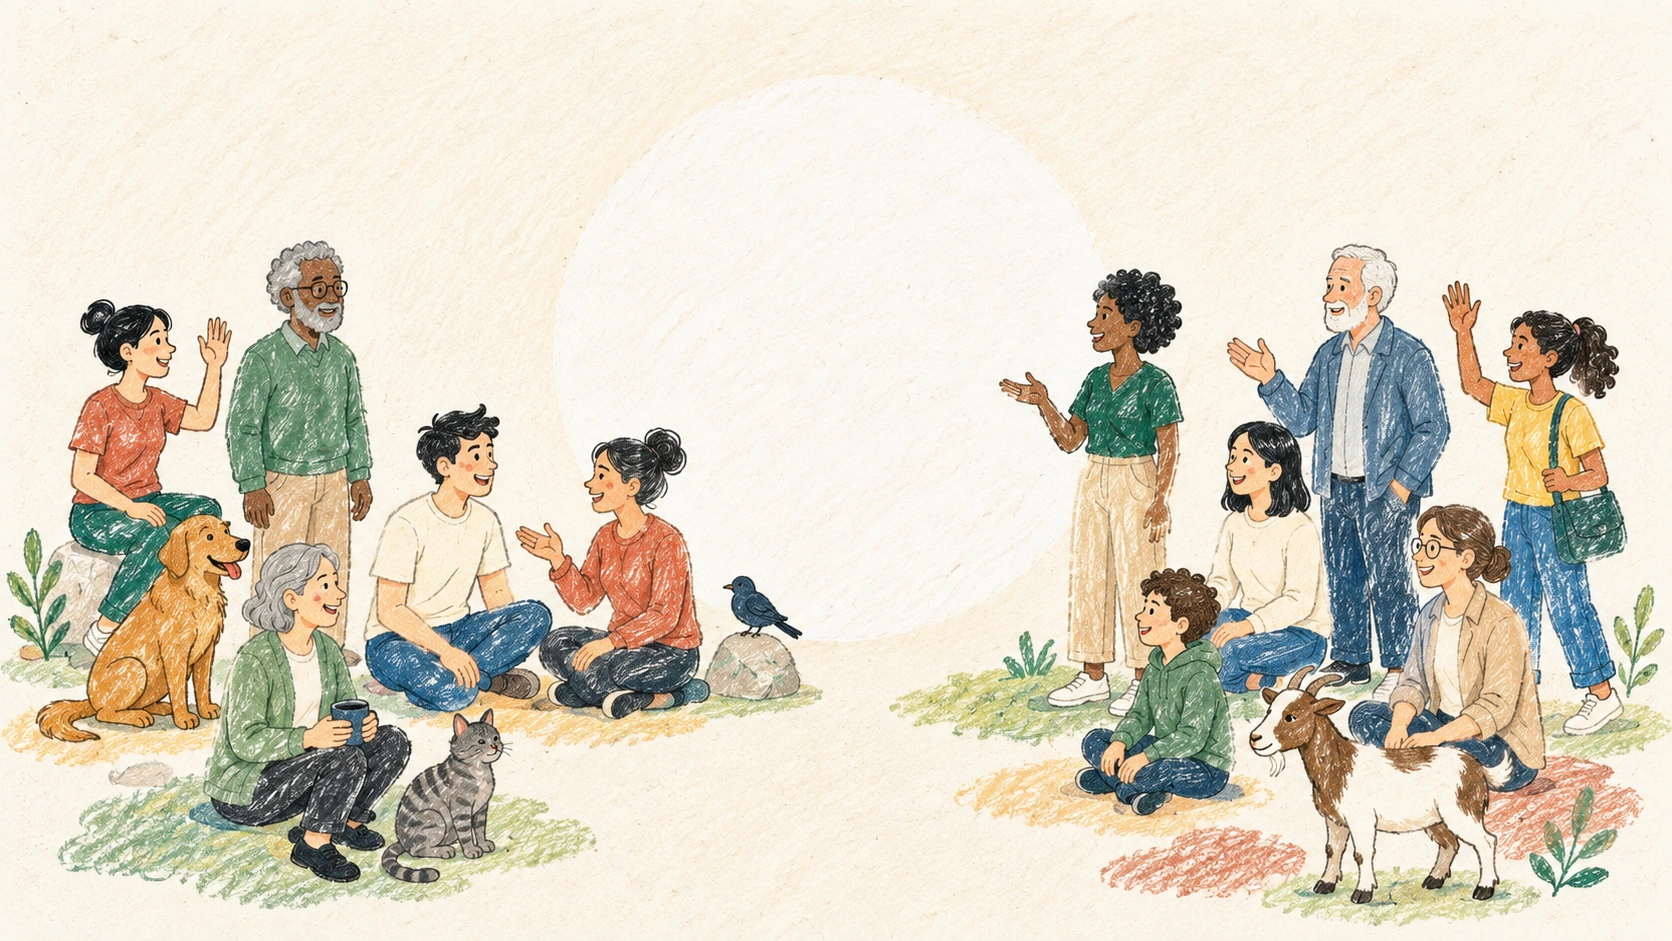
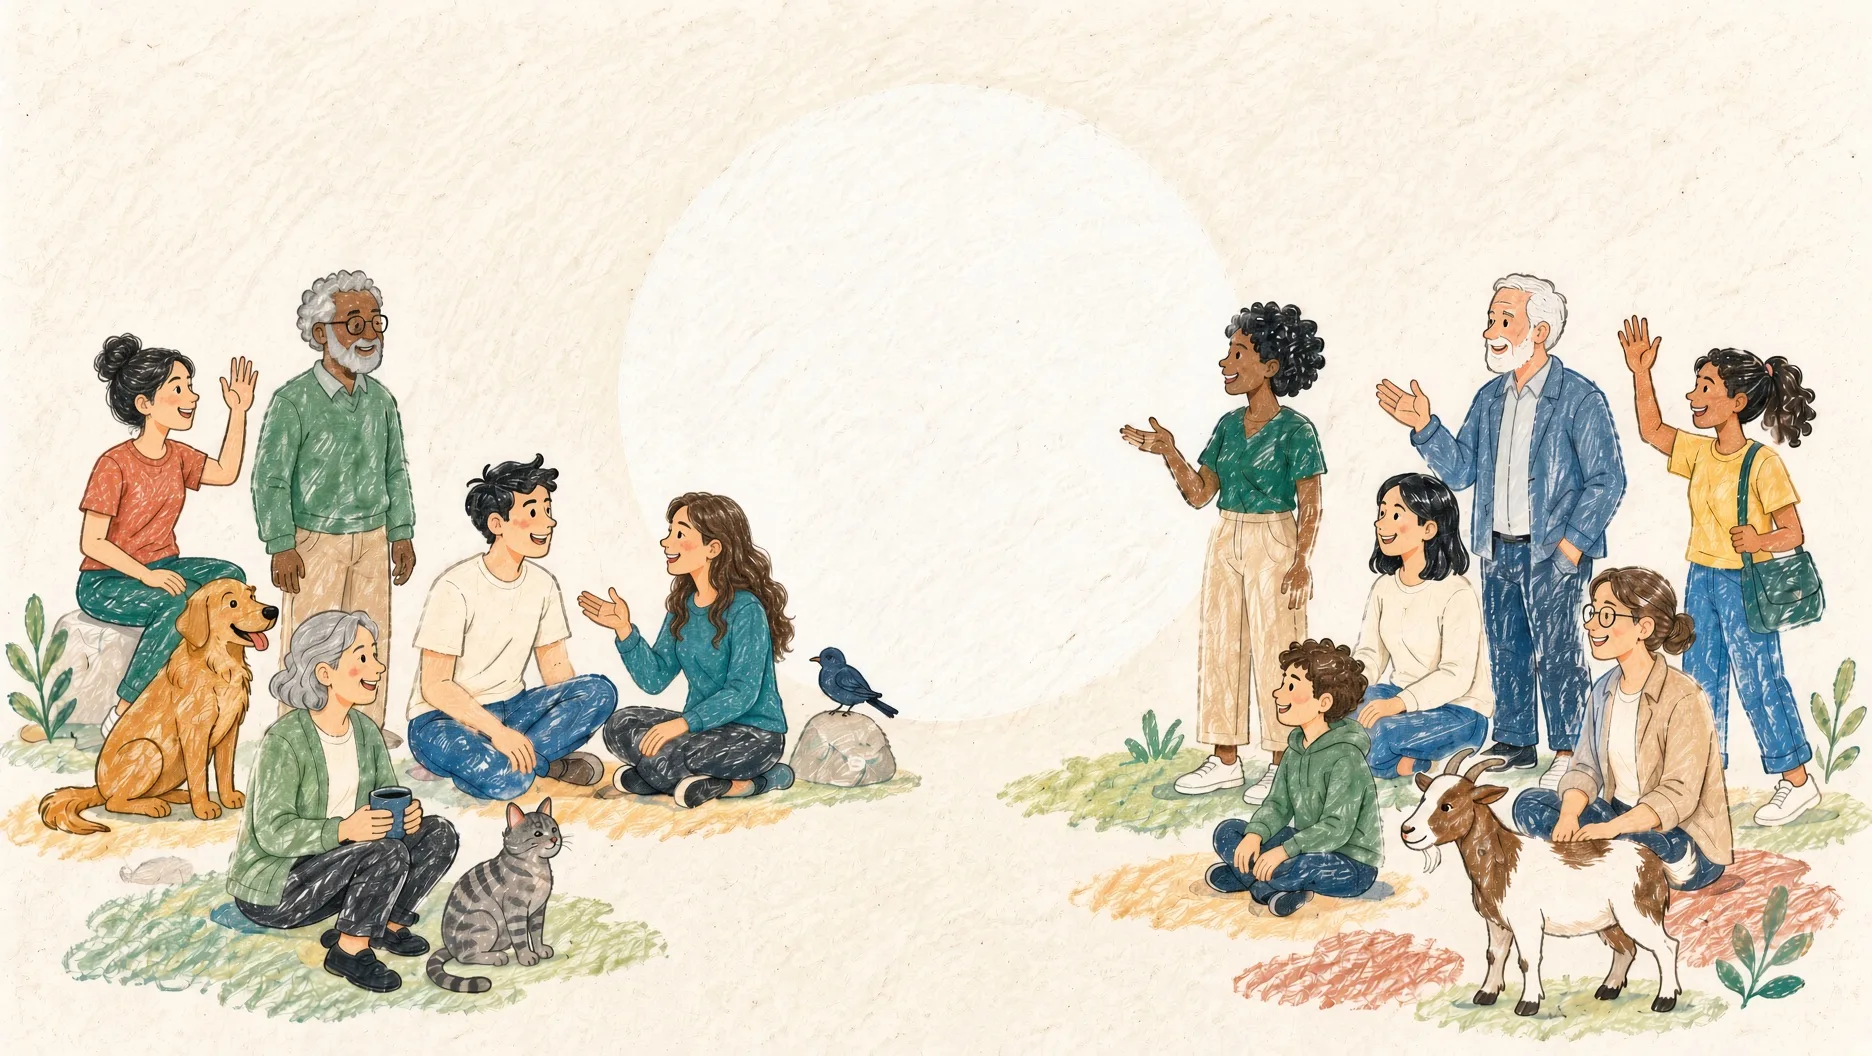
Put back the writing's styling, and stand the drawing up on a phone
The commit that removed the sheet took 130 lines of unrelated CSS with
it - everything between two media queries, which was the whole of the
notes: the ground the writing stands on, the padding round it, and the
rules that hold the shapes behind the text. On a phone that came out as
black blobs stacked down a blue page. Restored from the commit before,
minus only the sheet's own rules.

The opening now has two drawings instead of one crop: the wide one for a
window, and a standing 9:16 one for a phone, where the wide one could
only ever be a strip of somebody's jumper. Each leaves its own space for
the globe, both measured off the artwork the same way, and the standing
one covers a phone outright.

And choosing a country brings the page down far enough to show the top
of the card - the scroll anyone would do by hand, downwards only, since
the card no longer comes to you.

Changed region(s): [[0.5287, 0.2465, 1.0, 0.9862], [0.0, 0.2465, 0.4976, 0.9862]]

diff --git a/app/hallo-terra/hallo-terra.css b/app/hallo-terra/hallo-terra.css
@@ -442,6 +442,132 @@
   .terraSearch { width: min(230px, 62%); }
 }
 
+@media (prefers-reduced-motion: reduce) {
+  .terraCard { transition: none; }
+}
+
+/* Said only when somebody turns the wheel and the map does not move. */
+.terraWheelHint {
+  position: absolute;
+  left: 50%;
+  top: 50%;
+  transform: translate(-50%, -50%);
+  margin: 0;
+  z-index: 4;
+  padding: 14px 22px;
+  border-radius: 6px;
+  background: rgba(45, 44, 43, 0.78);
+  color: #fdfaf0;
+  font: 700 13px/1 var(--terra-hand);
+  letter-spacing: 0.04em;
+  pointer-events: none;
+  animation: terraHint 0.18s ease both;
+}
+@keyframes terraHint {
+  from { opacity: 0; }
+  to { opacity: 1; }
+}
+
+/* ---- what the map is for, underneath the map ---------------------- */
+
+/* The writing is not the tool, so it stands on its own lighter ground. */
+.terraNotes { background: var(--terra-notes); padding-top: 26px; }
+
+.terraAbout {
+  max-width: 720px;
+  margin: 0 auto;
+  padding: 40px clamp(22px, 6vw, 60px) 90px;
+}
+/* The writing sits on the page; the shapes sit behind it and are allowed to
+   wander outside their section. */
+.terraAbout section,
+.terraAbout .terraAside { position: relative; padding: 26px clamp(18px, 3vw, 30px) 30px; }
+.terraAbout section + section { margin-top: 26px; }
+.terraAbout section > :not(.terraShapes),
+.terraAbout .terraAside > :not(.terraShapes) { position: relative; }
+
+.terraShapes {
+  position: absolute;
+  inset: 0;
+  display: block;
+  pointer-events: none;
+}
+.terraShape { position: absolute; aspect-ratio: 1; height: auto; overflow: visible; }
+.terraShapeFill { fill: currentColor; opacity: 0.13; stroke: none; }
+.terraShapeLine { fill: none; stroke: currentColor; stroke-width: 1.6; opacity: 0.38; stroke-linejoin: round; }
+
+/* Out in the margins on a wide screen. On a narrow one there are no margins
+   to put them in, so they go under the writing instead - which is where they
+   already were, the text being the only thing here that is positioned - and
+   they are let down until a line of type crossing one is still just a line of
+   type on paper. */
+@media (max-width: 900px) {
+  .terraShape { opacity: 0.55; }
+}
+@media (max-width: 620px) {
+  .terraShape { opacity: 0.85; }
+  .terraShapeFill { opacity: 0.09; }
+  .terraShapeLine { opacity: 0.26; }
+}
+
+.terraAbout h2 {
+  margin: 0 0 18px;
+  font-family: var(--terra-hand);
+  font-size: clamp(19px, 2.4vw, 25px);
+  font-weight: 600;
+  letter-spacing: 0.02em;
+  line-height: 1.5;
+}
+.terraAbout p {
+  margin: 0 0 16px;
+  font-size: 14px;
+  line-height: 2.05;
+  color: #454b46;
+}
+.terraAbout p:last-child { margin-bottom: 0; }
+/* The site strips link colour and underline globally; inside a paragraph of
+   prose a link has to look like one again. */
+.terraAbout a {
+  color: var(--verm);
+  border-bottom: 1px solid rgba(173, 68, 52, 0.4);
+  padding-bottom: 1px;
+}
+.terraAbout a:hover { border-bottom-color: var(--verm); }
+.terraLede { font-size: 15px !important; color: var(--ink) !important; }
+.terraAbout .terraEyebrow { margin-bottom: 14px; }
+.terraSteps { margin: 0; padding: 0; list-style: none; counter-reset: step; }
+.terraSteps li {
+  counter-increment: step;
+  position: relative;
+  padding-left: 42px;
+  margin-bottom: 20px;
+  font-size: 14px;
+  line-height: 2.05;
+  color: #454b46;
+}
+.terraSteps li:before {
+  content: counter(step);
+  position: absolute;
+  left: 0;
+  top: 3px;
+  width: 25px;
+  height: 25px;
+  display: grid;
+  place-items: center;
+  border: 1px solid var(--line);
+  border-radius: 50%;
+  font: 500 11px/1 "Yu Gothic UI", sans-serif;
+  color: var(--muted);
+}
+.terraAside { margin-top: 30px; }
+
+/* The voices, and what each one allows. Folded away: it is a legal necessity
+   rather than something anybody came here to read. */
+.terraVoices { margin-top: 14px; font-size: 12px; color: var(--muted); }
+.terraVoices summary { cursor: pointer; letter-spacing: 0.04em; }
+.terraVoices ul { list-style: none; margin: 12px 0 0; padding: 0; columns: 2; column-gap: 26px; }
+.terraVoices li { margin-bottom: 5px; line-height: 1.7; break-inside: avoid; }
+.terraVoices code { font: 400 11px/1 Consolas, monospace; color: var(--ink); }
 @media (max-width: 640px) { .terraVoices ul { columns: 1; } }
 .terraAside h2 { font-size: 15px; margin-bottom: 12px; }
 .terraAside p { font-size: 12.5px; line-height: 1.95; }
@@ -529,7 +655,7 @@
   left: 50%;
   top: 50%;
   width: max(100%, 178dvh);
-  aspect-ratio: 1672 / 941;
+  aspect-ratio: 1872 / 1056;
   /* The centring lives here and not only in the keyframes: dropping the
      animation on the way out would otherwise drop the centring with it, and
      the drawing would jump to the bottom right corner on its last frame. */
@@ -543,6 +669,14 @@
 .terraIntro.leaving .terraIntroScene {
   animation: none;
   transform: translate(-50%, -50%) scale(7);
+}
+
+/* The standing drawing is 9:16, so on a phone it covers the screen outright
+   and the globe lands where the drawing put it - no special centring, and no
+   crop that leaves a stranger's sleeve filling the window. */
+.terraIntroScene.isTall {
+  width: max(100%, 56.3dvh);
+  aspect-ratio: 1008 / 1792;
 }
 
 .terraIntroScene canvas {
@@ -626,28 +760,7 @@
 }
 
 @media (max-width: 860px) {
-  /* A phone is much taller than the drawing, so covering it would blow the
-     globe up past the screen. Here the width leads instead, and the sides of
-     the crowd are allowed to run off - but only a little: at 190% the drawing
-     was nearly twice the screen and all that was left of it was somebody's
-     jumper. And what gets centred is the globe, not the middle of the picture,
-     because the middle of the picture is not what the opening is about. The
-     drawing then sits as a band across the screen with its own cream above and
-     below it, which is what that ground is there for. */
-  .terraIntroScene {
-    width: min(132%, 178dvh);
-    top: 46%;
-    transform: translate(-49.5%, -38.5%);
-    animation-name: terraCreepPhone;
-  }
-  .terraIntro.leaving .terraIntroScene { transform: translate(-49.5%, -38.5%) scale(7); }
   .terraIntroWord { width: 62%; font-size: clamp(19px, 5.4vw, 30px); }
-}
-/* The creep has to carry the same centring it runs on, or the first frame
-   throws the drawing back to the middle. */
-@keyframes terraCreepPhone {
-  from { transform: translate(-49.5%, -38.5%) scale(1); }
-  to { transform: translate(-49.5%, -38.5%) scale(1.07); }
 }
 
 /* ---- drawn boxes and drawn rules ------------------------------------ */

diff --git a/app/hallo-terra/TerraIntro.tsx b/app/hallo-terra/TerraIntro.tsx
@@ -26,17 +26,26 @@ const POOL = Object.values(varieties)
   .map((v) => v.expressions.greeting?.text?.split(" / ")[0]?.trim())
   .filter((t): t is string => !!t && t.length <= 12);
 
-// Where the illustration left a space for the globe, measured off the artwork.
-// In the crayon drawing the circle is barely brighter than the paper - what
-// separates them is blue, since the paper is cream and the circle is not - so
-// it was found by looking at that channel alone: 32.5% of the width, centred
-// at 49.5% / 38.5%. The globe is drawn a little larger so the circle's soft
-// edge is covered rather than left showing as a ring.
-const DISC_X = 49.5;
-const DISC_Y = 38.5;
-const DISC_SIZE = 33.8;
+// Two drawings of the same gathering: one lying down for a window, one
+// standing up for a phone, where the wide one could only ever be a strip of
+// somebody's jumper. Each leaves its own space for the globe, and each space
+// was measured off the artwork rather than guessed. In the crayon drawing the
+// circle is barely brighter than the paper - what separates them is blue,
+// since the paper is cream and the circle is not - so each was found by
+// looking for the widest run of pixels that are bright without being warm.
+// The globe is drawn a little larger than the space so the circle's soft edge
+// is covered rather than left showing as a ring.
+type Art = { src: string; x: number; y: number; size: number };
+const WIDE: Art = { src: "/hallo-terra/intro.webp", x: 49.5, y: 38.3, size: 34.0 };
+const TALL: Art = { src: "/hallo-terra/intro-tall.webp", x: 50.5, y: 41.7, size: 53.5 };
 
 export default function TerraIntro({ onDone }: { onDone: () => void }) {
+  // Which drawing, asked once at the width the rest of the page changes shape
+  // at. Read while the state is made rather than in an effect, which is safe
+  // here and nowhere else on the page: the opening is mounted a frame after
+  // the map by the client, so it never renders on the server and there is no
+  // first guess to be caught out by.
+  const [art] = useState<Art>(() => (window.matchMedia("(max-width: 860px)").matches ? TALL : WIDE));
   const canvasRef = useRef<HTMLCanvasElement>(null);
   const [leaving, setLeaving] = useState(false);
   const [word, setWord] = useState(0);
@@ -223,16 +232,16 @@ export default function TerraIntro({ onDone }: { onDone: () => void }) {
           The zoom layer is separate from the name and the button: they belong
           to the page, not to the scene being dived into. */}
       <div className="terraIntroZoom">
-        <div className="terraIntroScene">
-          <Image src="/hallo-terra/intro.webp" alt="" fill priority sizes="100vw" style={{ objectFit: "cover" }} />
+        <div className={`terraIntroScene${art === TALL ? " isTall" : ""}`}>
+          <Image src={art.src} alt="" fill priority sizes="100vw" style={{ objectFit: "cover" }} />
           <canvas
             ref={canvasRef}
             /* Width only: the height follows from aspect-ratio, because a
                percentage height here would answer to the frame, not the circle. */
-            style={{ left: `${DISC_X}%`, top: `${DISC_Y}%`, width: `${DISC_SIZE}%` }}
+            style={{ left: `${art.x}%`, top: `${art.y}%`, width: `${art.size}%` }}
           />
           {!leaving && (
-            <p className="terraIntroWord" style={{ left: `${DISC_X}%`, top: `${DISC_Y}%` }}>
+            <p className="terraIntroWord" style={{ left: `${art.x}%`, top: `${art.y}%` }}>
               <span key={word}>{greetings[word % Math.max(1, greetings.length)] ?? ""}</span>
             </p>
           )}

diff --git a/app/hallo-terra/TerraMap.tsx b/app/hallo-terra/TerraMap.tsx
@@ -48,6 +48,7 @@ export default function TerraMap() {
   // Shown when the wheel is turned without ctrl, so that "nothing happened"
   // says why. It takes itself away again.
   const [hint, setHint] = useState(false);
+  const cardRef = useRef<HTMLElement>(null);
   // Which of the place's ways of speaking the card is showing.
   const [tongue, setTongue] = useState(0);
   // Which languages this particular device can speak, which is nothing to do
@@ -407,6 +408,18 @@ export default function TerraMap() {
       setSelected(country.iso);
       setTongue(0);
       if (move) centreOn(country);
+      // On a narrow screen the card is below the map rather than over it, so
+      // choosing a country changes something you cannot see. The page comes
+      // down far enough to show the top of it - the scroll anyone would do by
+      // hand - and only ever downwards, so it never drags you back up from
+      // something you were already reading.
+      const card = cardRef.current;
+      if (!card || !window.matchMedia("(max-width: 860px)").matches) return;
+      requestAnimationFrame(() => {
+        const top = card.getBoundingClientRect().top + window.scrollY;
+        const want = Math.round(top - window.innerHeight * 0.42);
+        if (window.scrollY < want - 8) window.scrollTo({ top: want, behavior: "smooth" });
+      });
     },
     [centreOn],
   );
@@ -758,7 +771,7 @@ export default function TerraMap() {
         </div>
       )}
 
-      <aside className="terraCard" aria-live="polite">
+      <aside className="terraCard" ref={cardRef} aria-live="polite">
         {country ? (
           <div className="terraCardBody">
             {/* Its own outline beside its name: every place has one, it needs
